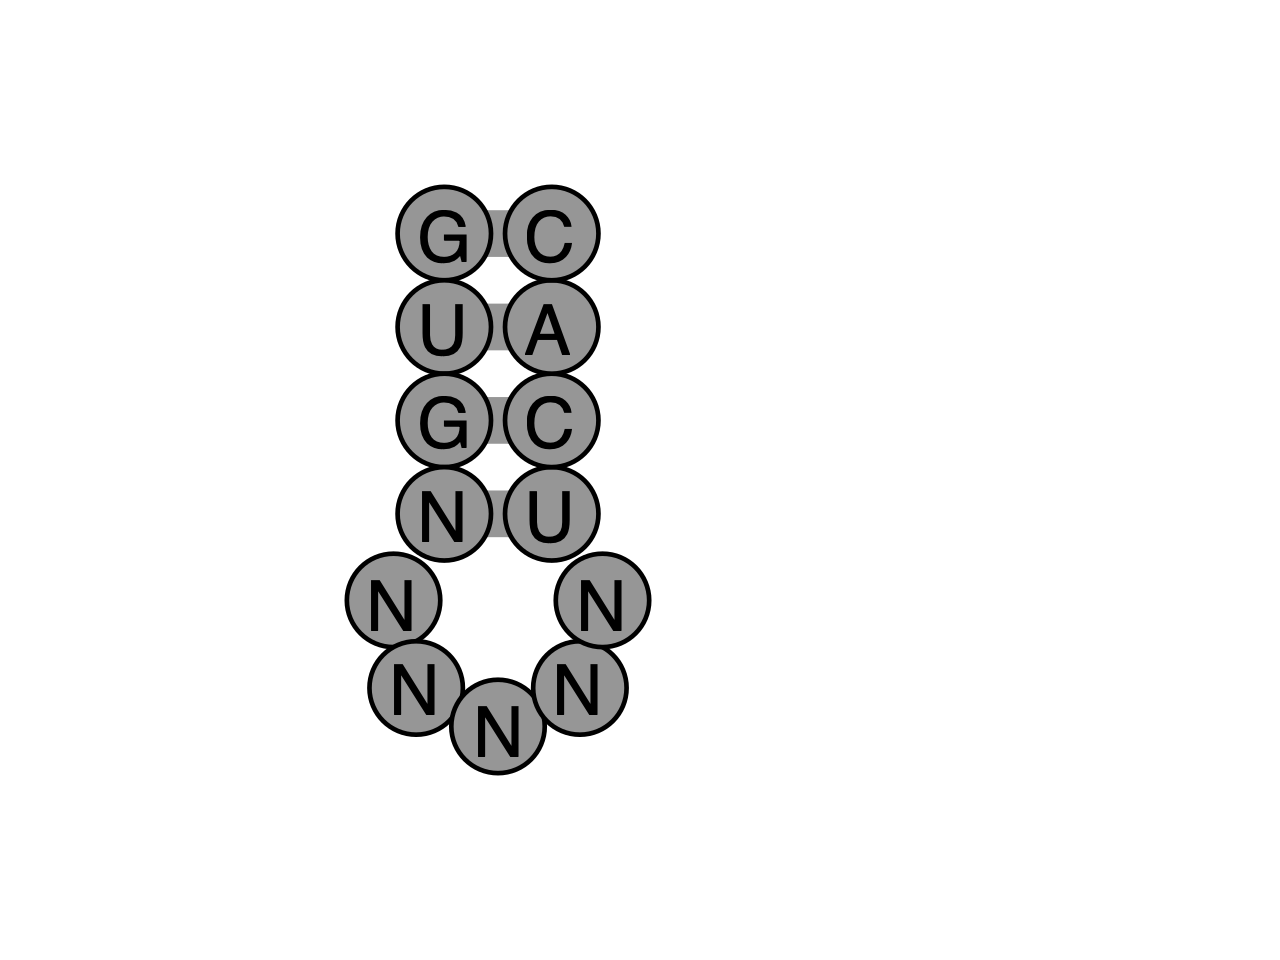
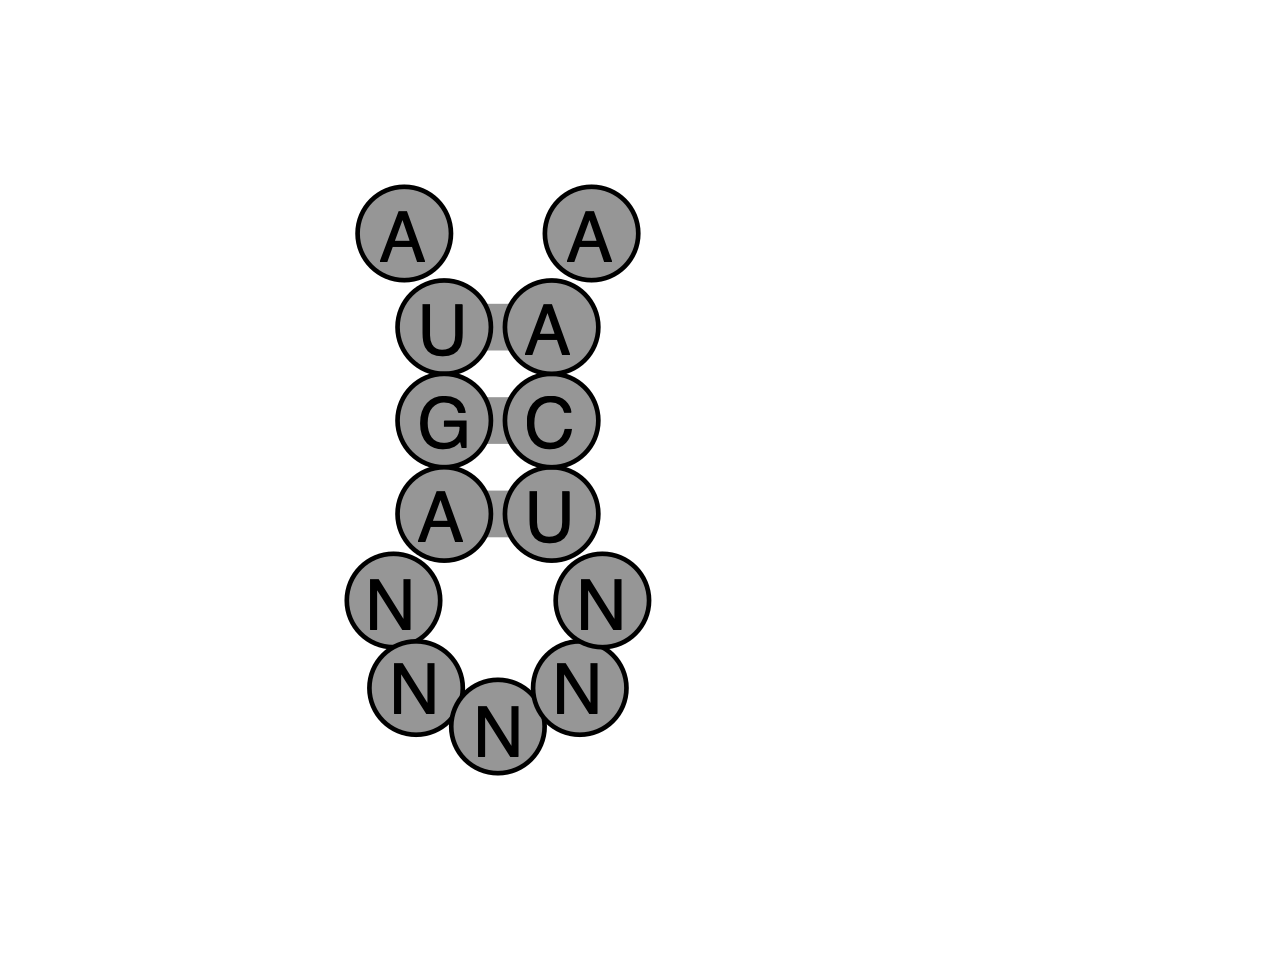
added more examples to readme

Changed region(s): [[0.2812, 0.1875, 0.5, 0.3125], [0.3125, 0.5, 0.375, 0.5625]]

diff --git a/rna_draw/colorer.py b/rna_draw/colorer.py
@@ -4,23 +4,17 @@ import matplotlib.cm
 import numpy as np
 import seaborn as sns
 
+from rna_draw.parameters import RenderType
+
 COLORS = {"r": [255, 102, 102],
           "g": [113, 188, 120],
           "b": [51, 153, 255],
-          "k": [1, 0, 0],
           "y": [255, 211, 0],
           "c": [0, 255, 255],
           "m": [255, 0, 255],
           "w": [255, 255, 255],
           "e": [150, 150, 150],
-          "o": [231, 115, 0],
-          "i": [51, 204, 204],
-          "h": [51, 153, 255]}
-
-class RenderType:
-    RES_TYPE = 0
-    PAIRED = 1
-    MOTIF = 2
+          "o": [231, 115, 0]}
 
 
 class Colorer(object):
@@ -99,7 +93,7 @@ class Colorer(object):
 
         if len(spl) == len(self.seq):
             for i, color_code in enumerate(spl):
-                rgb_colors[i] = self.__parse_color_code(color_code)
+                rgb_colors[i] = parse_color_code(color_code)
                 set_colors[i] = 1
             return rgb_colors, set_colors
 
@@ -107,7 +101,7 @@ class Colorer(object):
             if len(color_code_range) < 2:
                 continue
             num_range, color_code = color_code_range.split(":")
-            rgb_color = self.__parse_color_code(color_code)
+            rgb_color = parse_color_code(color_code)
             if len(num_range.split("-")) > 1:
                 min_num, max_num = [int(x) for x in num_range.split("-")]
                 if min_num > max_num:
@@ -124,17 +118,6 @@ class Colorer(object):
                 set_colors[i] = 1
 
         return rgb_colors, set_colors
-
-
-    def __parse_color_code(self, color_code):
-        if len(color_code) == 1:
-            return COLORS[color_code]
-
-        elif color_code in sns.xkcd_rgb:
-            return xkcd_color_name_to_rgb(color_code)
-
-        else:
-            raise ValueError("color_code: " + color_code + " is unknown")
 
 
     def __add_rgb_colors(self, rgb_colors, set_colors, override=False):
@@ -183,20 +166,15 @@ def parse_color_single_letter_codes(color_string):
     return colors
 
 
-def color_by_res_type(seq, ss):
-    colors = []
-    for e in seq:
-        if e == "A":
-            colors.append(COLORS["y"])
-        elif e == "C":
-            colors.append(COLORS["g"])
-        elif e == "G":
-            colors.append(COLORS["r"])
-        elif e == "U" or e == "T":
-            colors.append(COLORS["b"])
-        else:
-            colors.append(COLORS["e"])
-    return colors
+def parse_color_code(color_code):
+    if len(color_code) == 1:
+        return COLORS[color_code]
+
+    elif color_code in sns.xkcd_rgb:
+        return xkcd_color_name_to_rgb(color_code)
+
+    else:
+        raise ValueError("color_code: " + color_code + " is unknown")
 
 
 def color_by_data(data, palette=None):

diff --git a/generate_readme.py b/generate_readme.py
@@ -30,7 +30,10 @@ def get_args_from_file(fname):
 
     args = {
         'ss'  : None,
-        'seq' : None
+        'seq' : None,
+        'color_str' : None,
+        'render_type' : None,
+        'default_color' : None
     }
     for l in lines:
         spl = l.split("=")
@@ -76,10 +79,10 @@ def main():
     example_type = ""
     for i, row in df.iterrows():
         if row["example_type"] != example_type:
-            writer.write_heading(underscore_to_spaces(row["example_type"]), 3)
+            writer.write_heading(underscore_to_spaces(row["example_type"]), 2)
             example_type = row["example_type"]
 
-        writer.write_heading(underscore_to_spaces(row["name"]), 4)
+        writer.write_heading(underscore_to_spaces(row["name"]), 3)
         dict_vals = get_args_from_file(
                 "examples/" + row["example_type"] + "/" + row["name"] + ".txt")
         comment = dict_vals["comment"]
@@ -90,8 +93,8 @@ def main():
         cmd_args = get_args_from_dict(dict_vals)
         code.append(get_draw_rna_cmd(cmd_args))
         writer.write(code)
-        rd.rna_draw(dict_vals["ss"], dict_vals["seq"],
-                    filename="resources/imgs/test_{}".format(i))
+        rd.rna_draw(dict_vals["ss"], dict_vals["seq"],"resources/imgs/test_{}".format(i),
+                    dict_vals["color_str"], dict_vals["render_type"], default_color=dict_vals["default_color"])
         img = mg.Image(("resources/imgs/test_{}.png".format(i)), "")
         writer.writeline(img)
     #writer.writeline("[TOP](#how-to)")

diff --git a/rna_draw/draw.py b/rna_draw/draw.py
@@ -105,6 +105,9 @@ def rna_draw(ss, seq=None, filename='secstruct', color_str=None, render_type=Non
     if data_palette is not None:
         data_palette = matplotlib.cm.get_cmap(data_palette)
 
+    if default_color is not None:
+        default_color = colorer.parse_color_code(default_color)
+
     rd.draw(ss, seq, filename, color_str, render_type, data, data_palette,
             default_color)
 

diff --git a/rna_draw/parameters.py b/rna_draw/parameters.py
@@ -10,3 +10,9 @@ class DrawParameters:
         self.RENDER_IN_LETTERS = False
         self.output_width = 1280
         self.output_height = 960
+
+
+class RenderType:
+    RES_TYPE = 0
+    PAIRED = 1
+    MOTIF = 2

diff --git a/README.md b/README.md
@@ -1,10 +1,33 @@
 # rna_draw
 
-This script generates secondary structure diagrams for nucleic acids.
+A minimial python package for drawing nucleic acid secondary structures. 
 
 ## Dependencies
 
-The default behavior is to output the secondary structure visualization to both svg and png. 
+
+
+## Install
+
+Currently rna_draw requires cairosvg (https://cairosvg.org/) which requires cairo graphics (https://www.cairographics.org/download/) to be installed
+
+```shell
+#Mac 
+brew install cairo
+
+#ubuntu 
+sudo apt-get install libcairo2-dev
+
+#fedora 
+sudo yum install cairo-devel
+
+```
+
+
+
+## TODO
+
+(1) Large structures still generate collisions. 
+(2) draw tertiary contacts 
 
 ## Usage
 
@@ -27,21 +50,68 @@ optional arguments:
                         scheme to color by options: res_type,paired,motif,none
 ```
 
+Second import the package and call rna_draw function 
+
+```python
+import rna_draw as rd 
+rd.rna_draw(ss, seq=None, filename='secstruct', color_str=None,
+            render_type=None, data=None, data_palette=None, data_file=None, 
+            default_color=None)
+
+```
+
 ## How to: 
 
 - [basic usage](#basic-usage)
 	- [just secondary structure](#just-secondary-structure)
 	- [supplying a sequence](#supplying-a-sequence)
-### basic usage
-#### just secondary structure
+	- [adding render type](#adding-render-type)
+	- [second render type example](#second-render-type-example)
+	- [supplying custom colors](#supplying-custom-colors)
+- [coloring examples](#coloring-examples)
+	- [using single color codes](#using-single-color-codes)
+	- [changing default color](#changing-default-color)
+## basic usage
+### just secondary structure
 all that is needed is to supply a secondary structure
 ```shell
 rna_draw -ss "((((.....))))" 
 ```
 ![](resources/imgs/test_0.png)
-#### supplying a sequence
+### supplying a sequence
 sequence identity can be supplied through -seq option. Any letter can be supplied.
 ```shell
-rna_draw -ss "((((.....))))" -seq GUGNNNNNNUCAC 
+rna_draw -ss ".(((.....)))." -seq AUGANNNNNUCAA 
 ```
 ![](resources/imgs/test_1.png)
+### adding render type
+can supply a render type to color with a specific style. res_type, colors by residue color.
+```shell
+rna_draw -ss ".(((.....)))." -seq AUGANNNNNUCAA -render_type res_type 
+```
+![](resources/imgs/test_2.png)
+### second render type example
+there are different types of render types, here is showing "paired", which colors by whether a residue is in a basepair.
+```shell
+rna_draw -ss ".(((.....)))." -seq AUGANNNNNUCAA -render_type paired 
+```
+![](resources/imgs/test_3.png)
+### supplying custom colors
+The user can supply any set of colors as long as they are not overlapping. The format is resnum_min-resnum_max:color. You also do a single resnum in the format resnum:color. In this case we are using single letter codes. The available codes are red (r), greeen (g), blue (b), yellow (y), cyan (c), magenta (m), white (w), gray (e), orange(o)
+```shell
+rna_draw -ss ".(((.....)))." -seq AUGANNNNNUCAA -color_str 1-5:r;6-13:b 
+```
+![](resources/imgs/test_4.png)
+## coloring examples
+### using single color codes
+using the single color codes its one can specify a color string with the same length as the secondary structure. The available codes are red (r), greeen (g), blue (b), yellow (y), cyan (c), magenta (m), white (w), gray (e), orange(o).
+```shell
+rna_draw -ss ".(((.....)))." -color_str rrrrbbbbbgggg 
+```
+![](resources/imgs/test_5.png)
+### changing default color
+if the color string does not cover all residues the default color will be used for the rest. You can change this color.
+```shell
+rna_draw -ss ".(((.....)))." -color_str 1-5:r -default_color y 
+```
+![](resources/imgs/test_6.png)

diff --git a/resources/md_files/install.md b/resources/md_files/install.md
@@ -1,10 +1,33 @@
 # rna_draw
 
-This script generates secondary structure diagrams for nucleic acids.
+A minimial python package for drawing nucleic acid secondary structures. 
 
 ## Dependencies
 
-The default behavior is to output the secondary structure visualization to both svg and png. 
+
+
+## Install
+
+Currently rna_draw requires cairosvg (https://cairosvg.org/) which requires cairo graphics (https://www.cairographics.org/download/) to be installed
+
+```shell
+#Mac 
+brew install cairo
+
+#ubuntu 
+sudo apt-get install libcairo2-dev
+
+#fedora 
+sudo yum install cairo-devel
+
+```
+
+
+
+## TODO
+
+(1) Large structures still generate collisions. 
+(2) draw tertiary contacts 
 
 ## Usage
 
@@ -25,6 +48,16 @@ optional arguments:
   -data DATA            data values by res seperated by ;
   -render_type RENDER_TYPE
                         scheme to color by options: res_type,paired,motif,none
+```
+
+Second import the package and call rna_draw function 
+
+```python
+import rna_draw as rd 
+rd.rna_draw(ss, seq=None, filename='secstruct', color_str=None,
+            render_type=None, data=None, data_palette=None, data_file=None, 
+            default_color=None)
+
 ```
 
 ## How to: 
